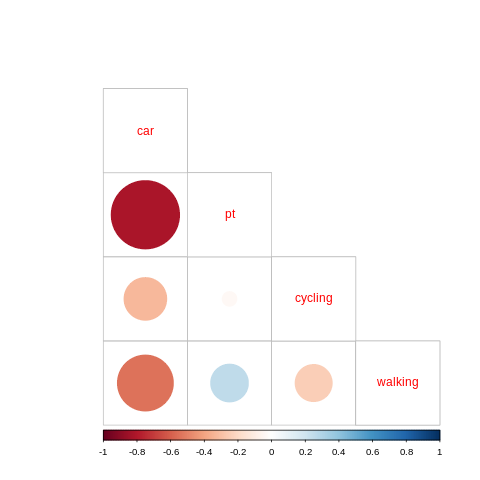
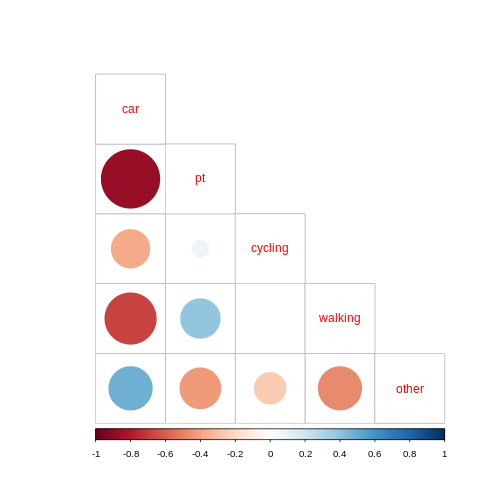
Update scenarios section

diff --git a/scenarios/README.md b/scenarios/README.md
@@ -43,22 +43,26 @@ Specific scenarios of change include:
 # Citywide scenarios of change
 
 To calculate scenarios of change, the minimum data requirements are the
-region’s current modal split, data on transport infrastructure and car
-parking spaces, and data on the provision of public transport options.
-For context, it’s useful to take a step back and consider the range of
-modal splits observed in a sample of cities worldwide. The figure below
-shows the diversity in mode splits based on (primarily wealthy) cities,
-based on data of the type shown in the table below from
-[Wikipedia](https://en.wikipedia.org/wiki/Modal_share).
+region’s current modal split and data that can be used as explanatory
+variables, including data on transport infrastructure and car parking
+spaces, and data on the provision of public transport options.
 
-| City       | walking | cycling | pt | car | year |
-| :--------- | ------: | ------: | -: | --: | ---: |
-| Adelaide   |       3 |       1 | 11 |  85 | 2016 |
-| Amsterdam  |       4 |      40 | 29 |  27 | 2014 |
-| Bratislava |       4 |       0 | 70 |  26 | 2004 |
-| Osaka      |      27 |      21 | 34 |  18 | 2000 |
-| Madrid     |      36 |       0 | 34 |  30 | 2006 |
-| Vilnius    |      36 |       0 | 26 |  38 | 2011 |
+## Mode split data
+
+Mode split is one of the fundamental pieces of information that is known
+for most cities. For context, it’s useful to take a step back and
+consider the range of modal splits observed in a sample of cities
+worldwide. The figure below shows the diversity in mode splits based on
+(primarily wealthy) cities, based on data of the type shown in the table
+below from [Wikipedia](https://en.wikipedia.org/wiki/Modal_share).
+
+| City       | walking | cycling | pt | car | other | year |
+| :--------- | ------: | ------: | -: | --: | ----: | ---: |
+| Detroit    |       1 |       0 |  2 |  92 |     5 | 2016 |
+| Amsterdam  |       4 |      40 | 29 |  27 |     0 | 2014 |
+| Bratislava |       4 |       0 | 70 |  26 |     0 | 2004 |
+| Osaka      |      27 |      21 | 34 |  18 |     0 | 2000 |
+| Helsinki   |      37 |      10 | 30 |  22 |     1 | 2016 |
 
 The figure shows that cars dominate the transport systems of most
 cities, accounting for a mode shares ranging from 18% (Osaka, Japan) to
@@ -71,10 +75,11 @@ Spain and Vilnius, Lithuania). It is interesting to note that while
 there is a roughly even distribution of mode shares by car, other modes
 have more skewed distributions. This could reflect the diversity of
 policies used to promote walking, cycling and public transport and the
-fact that cars tend to be the
-default.
+fact that cars tend to be the default. This implication is that **if no
+policies have been implemented to promote alternatives, cars
+dominate**.
 
-<img src="../figures/city-mode-split-wiki-cars.png" width="50%" /><img src="../figures/city-mode-split-wiki.png" width="50%" />
+<img src="../figures/city-mode-split-wiki-cars.png" width="100%" /><img src="../figures/city-mode-split-wiki.png" width="100%" />
 
 The relationships between the different modes is illustrated in the
 figure below, which suggests competition between all modes and cars
@@ -83,9 +88,50 @@ this dataset), and synergies between public transport and walking.
 **This strongly suggests that a reliable way to encourage walking in
 cities is through investment in public transport.**
 
-![](../figures/city-mode-cor.png)<!-- -->
+<img src="../figures/city-mode-cor.png" width="50%" />
 
-This city level data allows models of mode split to be developed.
+This city level data allows models of mode split to be developed,
+assuming there are sufficient explanatory variables defining the
+transport system.
+
+## Data characterising transport systems
+
+Transport systems are complex, composed of hundreds of interrelated
+elements. For modelling purposes, it makes sense to condense available
+datasets down into a few key parameters per city, zone or
+origin-destination pair. The process of identifying and quantifying
+transport system variables should be be an open-ended and adaptable
+process that is able to respond when the input data changes (e.g. due to
+changes in the transport system or improved data
+availability/collection).
+
+This section therefore provides a framework for including key transport
+system variables, based on the assumption that additional/modified
+variables will be used in future iterations of the model. Key variables
+that are readily available for most cities include:
+
+  - Percentage of the transport network that is dedicated to motor
+    traffic (an alternative or suplementary measure could be the
+    percentage of the city’s surface area dedicated to motor traffic)
+  - Provision for public transport, in terms of the percentage of the
+    city’s area within walking distance (e.g. 300m) of public transport
+    nodes such as bus stops and rail stations
+  - The percentage of the city’s transport network that is dedicated to
+    cycling
+  - Provision of walking infrastructure, for example the percentage of
+    the city’s transport network that is footway
+
+Note that all the high level varibles outlined above are ‘scale free’,
+meaning that they do not depend on the city’s size.
+
+## Modelling mode shift
+
+Treating mode share as a dependent variable involves multiple
+interrelated dependent variables, which is problematic for standard
+regression approaches. An alternative used in cycling potential research
+has been to ‘expand’ mode split data into individual categorical
+variables (Lovelace et al. 2017, supplementary information). This
+strategy is computationally intensive however.
 
 # Methods of modelling mode shift at the city level
 
@@ -121,6 +167,15 @@ Douma, Jacob C., and James T. Weedon. 2019. “Analysing Continuous
 Proportions in Ecology and Evolution: A Practical Introduction to Beta
 and Dirichlet Regression.” *Methods in Ecology and Evolution* 10 (9):
 1412–30. <https://doi.org/10.1111/2041-210X.13234>.
+
+</div>
+
+<div id="ref-lovelace_propensity_2017">
+
+Lovelace, Robin, Anna Goodman, Rachel Aldred, Nikolai Berkoff, Ali
+Abbas, and James Woodcock. 2017. “The Propensity to Cycle Tool: An Open
+Source Online System for Sustainable Transport Planning.” *Journal of
+Transport and Land Use* 10 (1). <https://doi.org/10.5198/jtlu.2016.862>.
 
 </div>
 
